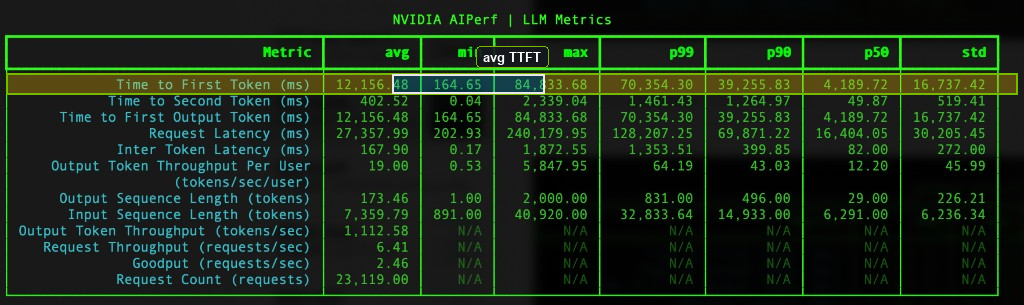
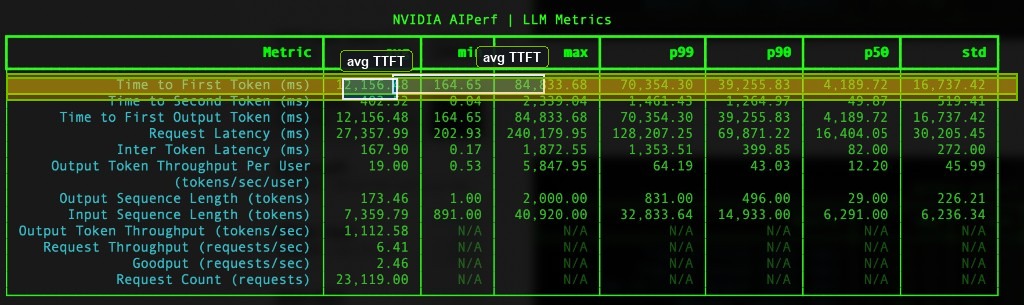
docs(aks-kv-cache-router): clarify Mooncake trace and KV routing use cases
Expand Step 6b with plain-English prefix-reuse scenarios, trace file
summary, and caveats. Refresh AIPerf workshop PNGs and tune
highlight_aiperf_images.py coordinates; add local .venv_img gitignore.

Made-with: Cursor

Changed region(s): [[0.0, 0.1475, 1.0, 0.3541]]

diff --git a/cloud-service-providers/azure/workshops/aks-kv-cache-router/scripts/highlight_aiperf_images.py b/cloud-service-providers/azure/workshops/aks-kv-cache-router/scripts/highlight_aiperf_images.py
@@ -1,5 +1,9 @@
 #!/usr/bin/env python3
-"""Add graphical highlights to AIPerf screenshot PNGs (TTFT row + avg column)."""
+"""Add graphical highlights to AIPerf screenshot PNGs (TTFT row + avg column).
+
+Run against unannotated captures only (e.g. ``git checkout -- images/aiperf-kv-router-*.png``),
+or overlays will stack.
+"""
 
 from __future__ import annotations
 
@@ -8,11 +12,12 @@ from pathlib import Path
 from PIL import Image, ImageDraw, ImageFont
 
 
-# Row bounds (y0 inclusive, y1 exclusive) from layout detection on workshop screenshots
+# (y_top, y_bottom, avg_col_x0, avg_col_x1) — tuned for 1024px-wide AIPerf captures.
+# Both crops share the same table grid; the "enabled" shot only has extra title rows (shift y).
+# avg column sits at the right end of the first green span on the TTFT number line (~318–391).
 SPECS: dict[str, tuple[int, int, int, int]] = {
-    # path suffix -> (y_top, y_bottom, avg_col_x0, avg_col_x1)
-    "disabled": (76, 92, 398, 538),
-    "enabled": (92, 108, 398, 538),
+    "disabled": (80, 98, 348, 391),
+    "enabled": (90, 106, 348, 391),
 }
 
 
@@ -57,15 +62,15 @@ def highlight_image(src: Path, dest: Path, key: str) -> None:
 
     out = Image.alpha_composite(base, overlay)
 
-    # Label (non-destructive: small banner top-right of avg box)
+    # Small banner above the avg column
     label = Image.new("RGBA", base.size, (0, 0, 0, 0))
     ldraw = ImageDraw.Draw(label)
     font = try_load_font(13)
     text = "avg TTFT"
     bbox = ldraw.textbbox((0, 0), text, font=font)
     tw, th = bbox[2] - bbox[0], bbox[3] - bbox[1]
-    bx1 = min(w - 8, ax1 + 4)
-    bx0 = bx1 - tw - 14
+    bx0 = max(8, ax0 - 2)
+    bx1 = min(w - 8, bx0 + tw + 14)
     by0 = max(6, y0 - th - 14)
     by1 = by0 + th + 8
     ldraw.rounded_rectangle((bx0, by0, bx1, by1), radius=4, fill=(20, 24, 28, 235), outline=row_outline, width=1)

diff --git a/cloud-service-providers/azure/workshops/aks-kv-cache-router/README.md b/cloud-service-providers/azure/workshops/aks-kv-cache-router/README.md
@@ -258,9 +258,29 @@ Check health:
 
 ### Step 6b: Run AIPerf with the Mooncake trace
 
-**Mooncake trace dataset.** The load test can use the [Mooncake](https://github.com/kvcache-ai/Mooncake/) open-source traces (JSONL: timestamps, `input_length`, `output_length`, remapped block `hash_ids`). The FAST'25 traces (for example **`FAST25-release/traces/toolagent_trace.jsonl`**) pair with **`--custom-dataset-type mooncake_trace`** in **NVIDIA AIPerf** to stress realistic cache reuse.
+**What this dataset is.** The workshop load test uses traces published with [Mooncake](https://github.com/kvcache-ai/Mooncake/)—the serving stack behind **Kimi** (Moonshot AI). For the [FAST'25 paper](https://www.usenix.org/conference/fast25/presentation/qin), the project released **`FAST25-release/traces/`**, including **`toolagent_trace.jsonl`**: one JSON object per line describing a **synthetic replay** of real production **shape** (lengths, timing, and **which KV blocks** would have been shared), not the original user text. Prompts are **not** in the file; block identities are **remapped** to opaque integers (`hash_ids`).
 
-**When Mooncake is a good fit.** Traces come from real Kimi (Moonshot) traffic patterns, so timing and reuse are useful for **KV routing** and **disaggregation** experiments. They are **anonymized** (no original prompts) and represent **one** workload slice; complement with your own traces for capacity and SLO planning.
+**Note (naming):** You may hear informal shorthand like “Moonrake”; **this guide means the Mooncake FAST’25 JSONL traces** and AIPerf’s **`mooncake_trace`** loader.
+
+**Why we use it here.** KV cache routing matters most when many live requests **start the same way**—same instructions, same tool definitions, same retrieved document, same long scaffold—so a worker that already processed that **prefix** can serve the next request with less **prefill** work and lower **time to first token**. Random or wholly unique prompts do not exercise that behavior. The Mooncake **tool/agent**-style trace captures **realistic timing** and **realistic overlap** from a large production-shaped workload, so AIPerf stresses **router decisions** and **TTFT** in a way that lines up with what you graph in [Step 5](#step-5-configure-azure-managed-prometheus-integration). [Step 6c](#step-6c-sample-aiperf-results--kv-routing-on-vs-off-8-gpu) compares routing on vs. off on this trace because it is intentionally **cache-friendly**, not a worst-case stream of unrelated long prompts.
+
+**When KV routing helps (plain English).** “Prefix reuse” simply means **the beginning of the prompt is shared** across requests. The model would compute the same early tokens (and their **KV cache**) again unless a **router** sends follow-on traffic to a worker that **already holds** that cache.
+
+- **Same system prompt for everyone** — You ship one long system message (safety policy, tone, formatting rules, locale) in front of every user turn. Thousands of short user questions hit the cluster; without routing, round-robin spreads them across GPUs and **each GPU recomputes the identical multi-thousand-token head** before it ever reads the user’s question.
+
+- **RAG with a hot document** — Many users ask different questions but the **same** retrieved passages (runbook, contract section, product spec) are pasted at the top of the prompt. The **shared chunk** is the prefix; routing can keep those requests on workers that already encoded that text.
+
+- **Coding assistants and tool-using agents** — A session repeats a **large fixed scaffold**: IDE rules, repository map, API descriptions, tool JSON, environment preamble. Each turn only **appends** a small user message or tool result. Parallel users often share the same **tool and instruction block** even when their follow-up text differs.
+
+- **Support bots and templated workflows** — The first screen of context is the same product disclaimers, **FAQ**, escalation logic, and CRM fields; only the customer’s latest message changes. High traffic amplifies the waste if every replica prefills that template from scratch.
+
+- **Batch evaluation and A/B harnesses** — Benchmark rows look like **identical evaluation instructions + different test item**. The harness text is a long shared prefix repeated across the batch; routing amortizes that work across requests.
+
+**When it helps less.** If prompts are mostly **unique from token one** (arbitrary open-ended chat with no shared template), or traffic is so sparse that **cache is cold** on every worker, routing has little prefix to exploit. KV routing is a **workload-shaped** win: it shows up when **overlap** is real in production.
+
+**Trace file (for AIPerf).** `toolagent_trace.jsonl` is **JSONL**: one request per line with **`timestamp`** (schedule, ms), **`input_length`**, **`output_length`**, and abstract **`hash_ids`** that encode **which parts of the prompt overlap** between requests—without storing real user text. Use **`--custom-dataset-type mooncake_trace`** and **`--fixed-schedule`** so replay follows that timing; see the [Mooncake traces](https://github.com/kvcache-ai/Mooncake/tree/main/FAST25-release/traces) for the raw files.
+
+**Caveats.** The trace is **one** anonymized slice of one product workload; counts shift if you change model or tokenizer. Use it to compare **routing on vs. off** and to reason about **TTFT** under reuse, then validate against **your** traffic.
 
 Install **AIPerf** if needed:
 
@@ -318,7 +338,7 @@ Mean TTFT is roughly **6.4× faster** (~**84%** lower) with routing on; **p99** 
 
 **Workload shape (both runs).** Average **input length** ~**7.4k** tokens, average **output length** ~**173** tokens.
 
-AIPerf screenshots (**routing off**, then **on**):
+AIPerf screenshots (**routing off**, then **on**). The **Time to First Token** row is tinted amber, the **avg** cell is outlined in cyan with a small **avg TTFT** label—see [`scripts/highlight_aiperf_images.py`](scripts/highlight_aiperf_images.py) if you replace the source PNGs and need to reapply the overlays (requires [Pillow](https://pypi.org/project/pillow/)).
 
 <img src="images/aiperf-kv-router-disabled.png" height="400" border="1">
 
@@ -327,6 +347,13 @@ AIPerf screenshots (**routing off**, then **on**):
 Results depend on **model**, **GPU SKU**, **concurrency**, and **trace**. For apples-to-apples comparisons, keep the same **AIPerf** flags, trace file, and **`--random-seed`**.
 
 ---
+
+## Notes for reviewers and contributors
+
+- **Workshop layout:** This content lives under `cloud-service-providers/azure/workshops/aks-kv-cache-router/`, following the same pattern as other Azure workshops (for example [`aiq-rag-blueprint`](../aiq-rag-blueprint/)).
+- **Operator install order:** Apply **Dynamo CRDs**, then install the **Dynamo platform** chart (operator, etcd, NATS) and wait until those pods are **Running** before `kubectl apply` of `DynamoGraphDeployment`. **Step 3.5** is written to match the [Dynamo Kubernetes installation guide](https://docs.nvidia.com/dynamo/latest/kubernetes/installation_guide.html); if upstream changes the required sequence, update that step and any version notes together.
+- **Secrets:** Use the manifest placeholder or `kubectl create secret` for `HF_TOKEN` only. Do **not** commit real tokens or other credentials in YAML or documentation.
+- **`.gitignore`:** A local virtualenv for image tooling (for example `.venv_img/` when using [`scripts/highlight_aiperf_images.py`](scripts/highlight_aiperf_images.py)) is excluded at the `nim-deploy` repo root via `cloud-service-providers/azure/workshops/aks-kv-cache-router/.venv_img/` in [`.gitignore`](../../../../.gitignore).
 
 ## See also
 
